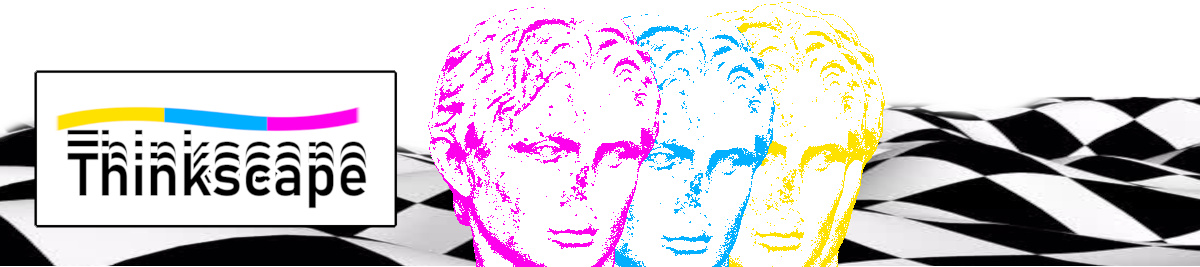
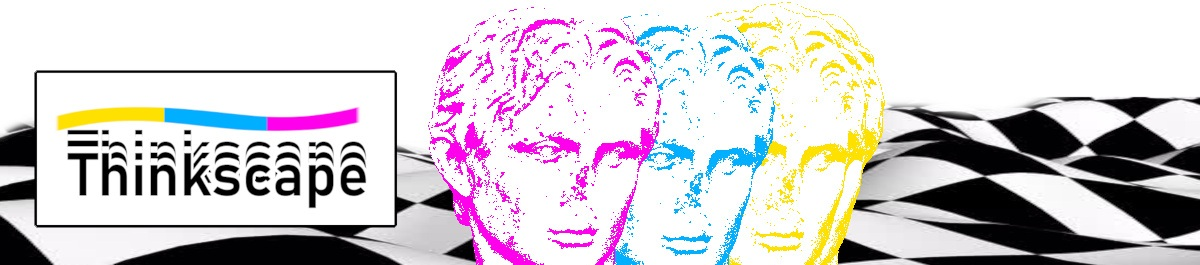
Polished milestone4

diff --git a/milestone4/style.css b/milestone4/style.css
@@ -1,3 +1,7 @@
+body {
+    margin: 0px;
+}
+
 #wrapper {
     display: grid;
     grid-template-rows: auto auto minmax(0, 15em);
@@ -9,32 +13,53 @@
 #wrapper img {
     object-fit: cover;
     object-position: center;
+    align-self: end;
 }
 
 #banner {
     grid-column: 1 / -1;
-    /*1, 2 -> 2, -1 */
     object-fit: cover;
     justify-self: center;
+    border-bottom: 1em solid black;
+}
+
+#banner img {
+    height: 100%;
 }
 
 #nav-bar {
+    display: grid;
+    grid-template-rows: 75px 10em;
     grid-row: 2 / 4;
     align-self: start;
     grid-column: 2 / 3;
+    background-image: url('./media/left-sidebar.jpg');
+    height: 1280px;
+    /* must manually set to 90% or whatever */
 }
 
 #nav-bar img {
-    height: auto;
-    max-width: 175px;
+    width: 150px;
+    align-self: center;
+}
+
+nav {
+    position: sticky;
+    display: flex;
+    flex-flow: column nowrap;
+    top: 0;
 }
 
 #right-sidebar {
-    grid-row: 2 / 4;
+    width: 100%;
+    height: 1280px;
+    grid-row: 2 / -2;
     grid-column: 7 / 8;
     object-fit: fill;
-    align-self: start;
+    display: block;
+    align-self: end;
 }
+
 
 main {
     display: flex;
@@ -48,24 +73,39 @@ main {
 
 main section {
     display: grid;
-    grid-template-columns: 30em 200px;
+    grid-template-columns: 20em 20em;
+    padding-left: 3em;
+    padding-right: 3em;
 }
 
 main section img {
-    height: 200px;
-    width: 200px;
+    height: 20em;
+    width: 20em;
     object-fit: fill;
 }
 
 footer {
     display: grid;
-    grid-template-columns: minmax(0em, 10em) 22em minmax(0em, 10em);
+    grid-template-columns: 175px 350px 350px 175px;
     grid-row: 3;
-    grid-column: 3 / 7;
+    grid-column: 2 / -2;
     background-color: #23237F;
+    justify-content: center;
     color: white;
+    border-top: 1em solid black;
+}
+
+footer section {
+    grid-column: 2 / 3;
+    padding-left: 1em;
 }
 
 #owner-contact {
     grid-column: 3 / 4;
+    text-align: right;
+    padding-right: 1em;
+}
+
+* {
+    font-family: Arial, Helvetica, sans-serif;
 }

diff --git a/milestone4/index.html b/milestone4/index.html
@@ -11,14 +11,15 @@
 <body>
     <div id="wrapper">
         <div id="banner">
-            <img id="header-logo">
             <img id="banner-bg" src="media/banner.jpg" alt="Website banner">
         </div>
         <div id="nav-bar">
             <nav id="side-sticky">
-                <img id="nav-logo" src="media/thinkscape logo.png" alt="Go to Home page">
+                <a href='index.html'><img id="nav-logo" src="media/thinkscape logo.png" alt="Go to Home page"></a>
+                <a href="index.html" style="color: #FFE100;">About</a>
+                <a href="index.html" style="color: #00AFFF;">Articles</a>
+                <a href="index.html" style="color: #FF00EC;">Help</a>
             </nav>
-            <img id="nav-bar-bg" src="media/left-sidebar.jpg" alt="Nav bar background">
         </div>
         <img id="right-sidebar" src="media/right-sidebar.png" atl="Right sidebar background">
         <main>
